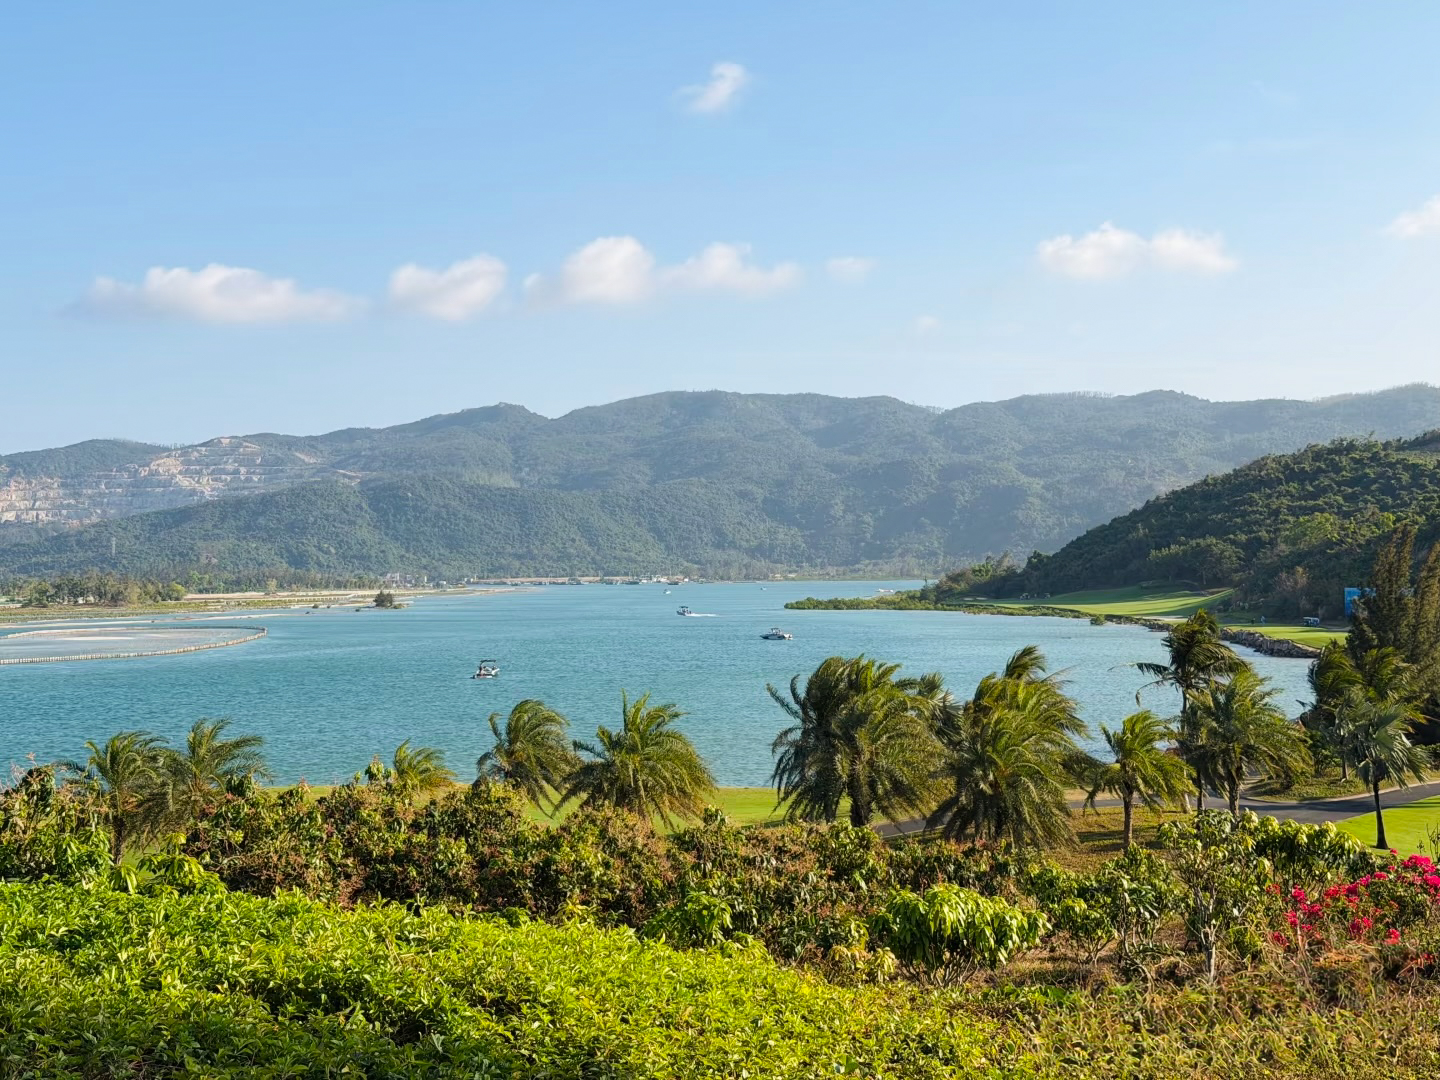
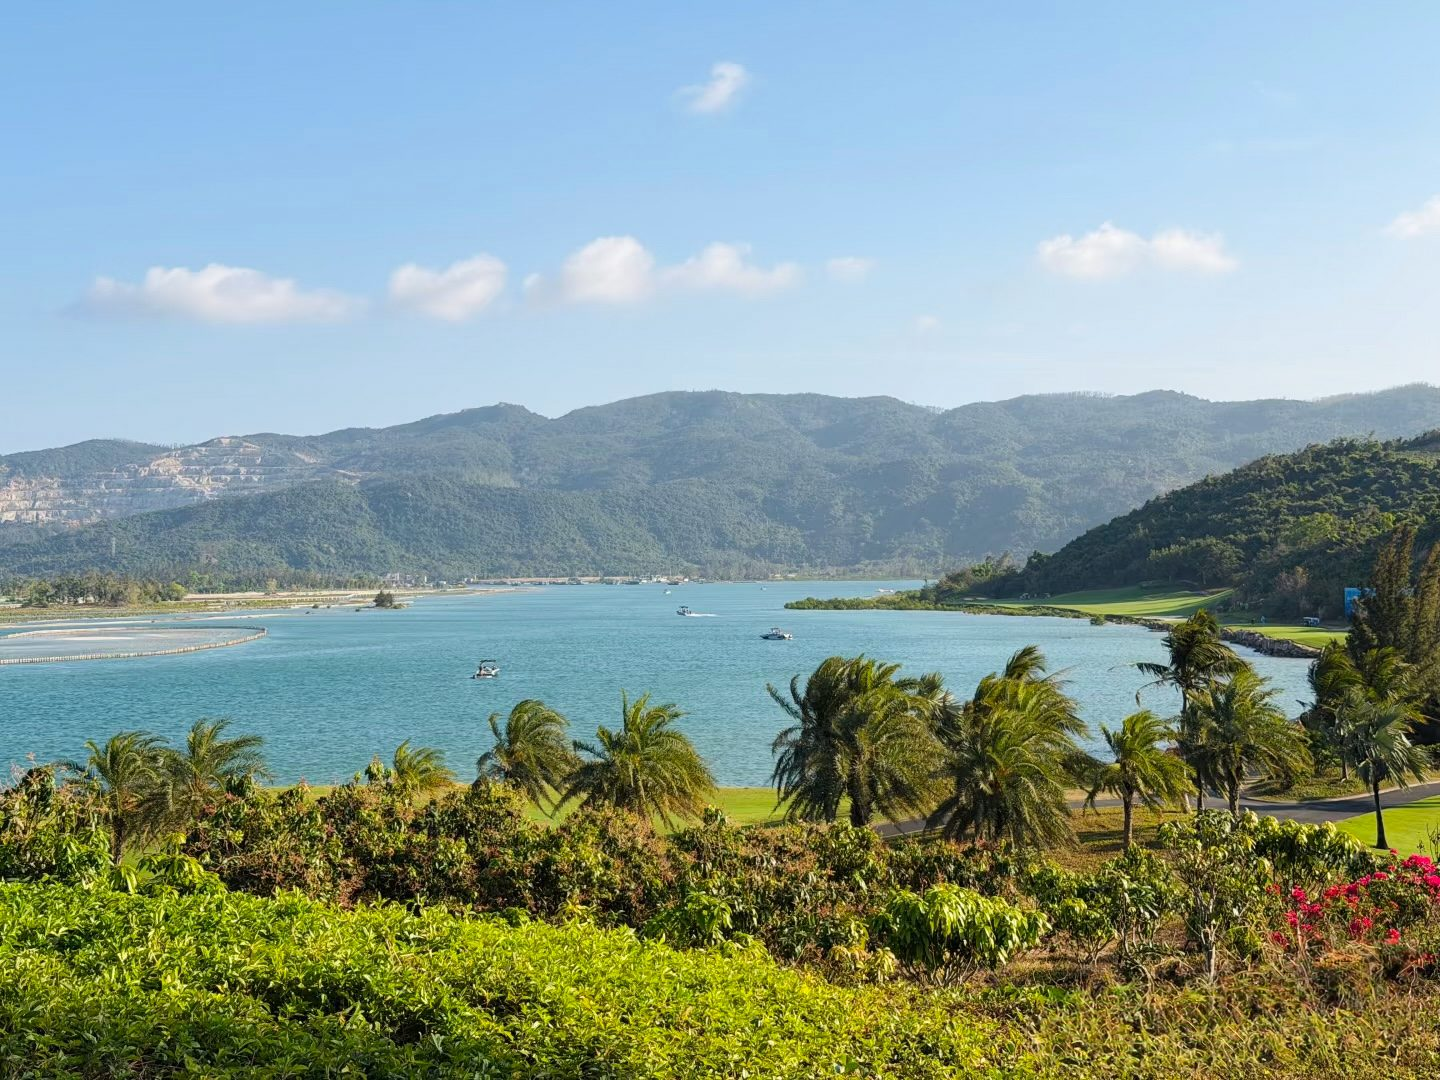
golf: swipeable image carousels for course showcases
Replace single course images on pages/golf.html with the same slider
used on golfchina.co (crossfade + arrows + dots + touch swipe), keeping
surfchina's 4:3 ratio. Blackstone/Dunes/Shanqin use the Golf China
photos; Lu Hui Tou uses three Wanning golf photos (1780920050054
recompressed to ~324KB).

diff --git a/pages/golf.html b/pages/golf.html
@@ -312,7 +312,7 @@ nav.scrolled { padding: 0.7rem 0; }
 }
 .course-row.reverse .course-row-grid { grid-template-columns: 1fr 1.05fr; }
 .course-row.reverse .course-row-img { order: 2; }
-.course-row-img { width: 100%; aspect-ratio: 4 / 3; overflow: hidden; border-radius: 3px; background: var(--sand-dark); }
+.course-row-img { width: 100%; aspect-ratio: 4 / 3; overflow: hidden; border-radius: 3px; background: var(--sand-dark); position: relative; }
 .course-row-img img { width: 100%; height: 100%; object-fit: cover; display: block; transition: transform 0.8s var(--transition); }
 .course-row-img:hover img { transform: scale(1.04); }
 .course-tag { display: inline-block; font-family: 'Inter', sans-serif; font-size: 0.72rem; font-weight: 700; letter-spacing: 0.16em; text-transform: uppercase; color: var(--gold); margin-bottom: 0.8rem; }
@@ -404,6 +404,40 @@ nav.scrolled { padding: 0.7rem 0; }
 @media (max-width: 880px) {
   .shanqin-grid { grid-template-columns: 1fr; gap: 2rem; }
 }
+
+/* ======= COURSE IMAGE CAROUSEL (swipeable slider, ported from Golf China) ======= */
+.course-row-img.gal, .shanqin-img.gal { position: relative; }
+.gal img {
+  position: absolute; inset: 0;
+  width: 100%; height: 100%;
+  object-fit: cover; display: block;
+  opacity: 0; transition: opacity 0.55s ease;
+}
+.gal img.active { opacity: 1; }
+/* keep the carousel a clean crossfade — no hover zoom on stacked images */
+.course-row-img.gal:hover img { transform: none; }
+.gal-btn {
+  position: absolute; top: 50%; transform: translateY(-50%); z-index: 3;
+  width: 40px; height: 40px; border-radius: 999px;
+  border: 1px solid rgba(255,255,255,0.55);
+  background: rgba(10,77,104,0.42); color: #fff;
+  font-size: 20px; line-height: 1; cursor: pointer;
+  display: flex; align-items: center; justify-content: center;
+  transition: all 0.25s var(--transition); backdrop-filter: blur(2px);
+}
+.gal-btn:hover { background: var(--ocean); border-color: var(--gold); }
+.gal-btn.prev { left: 14px; }
+.gal-btn.next { right: 14px; }
+.gal-dots {
+  position: absolute; bottom: 14px; left: 50%; transform: translateX(-50%);
+  z-index: 3; display: flex; gap: 8px;
+}
+.gal-dot {
+  width: 7px; height: 7px; border-radius: 999px; border: none; padding: 0;
+  background: rgba(255,255,255,0.5); cursor: pointer; transition: all 0.25s;
+}
+.gal-dot.on { background: var(--gold); transform: scale(1.25); }
+@media (max-width: 600px) { .gal-btn { display: none; } }
 
 /* ======= GOLF GALLERY (mixed orientation, natural ratio, no crop) ======= */
 .golf-gallery {
@@ -629,8 +663,16 @@ nav.scrolled { padding: 0.7rem 0; }
 <!-- COURSE 1 — MISSION HILLS BLACKSTONE -->
 <section class="course-row">
   <div class="course-row-grid">
-    <div class="course-row-img fade-in">
-      <img loading="lazy" decoding="async" src="/Assets/golf/fairway-bunkers-01.jpg" alt="Mission Hills Blackstone — black-lava championship course">
+    <div class="course-row-img gal fade-in">
+      <img class="active" decoding="async" src="/Assets/golf/blackstone-fairway-bunkers.jpg" alt="Rugged white-sand bunkers set against black lava rock on a Blackstone fairway">
+      <img loading="lazy" decoding="async" src="/Assets/golf/blackstone-palm-fairway.jpg" alt="A palm-lined fairway running between walls of volcanic stone at Blackstone">
+      <img loading="lazy" decoding="async" src="/Assets/golf/blackstone-sandy-waste.jpg" alt="A green set beyond a wide sandy waste area dotted with scrub on the Blackstone course">
+      <img loading="lazy" decoding="async" src="/Assets/golf/blackstone-sunrise.jpg" alt="Dawn light over a Blackstone fairway, the sky turning pink above distant hills">
+      <img loading="lazy" decoding="async" src="/Assets/golf/blackstone-tiger-rory.jpg" alt="Tiger Woods and Rory McIlroy walking a fairway together during The Match at Mission Hills Haikou">
+      <img loading="lazy" decoding="async" src="/Assets/golf/blackstone-lava-wall.jpg" alt="A wall of black volcanic rock crossing the fairway toward a green at Blackstone">
+      <button class="gal-btn prev" aria-label="Previous image">&lsaquo;</button>
+      <button class="gal-btn next" aria-label="Next image">&rsaquo;</button>
+      <div class="gal-dots"></div>
     </div>
     <div class="course-row-content">
       <span class="course-tag">01 &middot; Haikou &middot; #1 in China</span>
@@ -663,8 +705,15 @@ nav.scrolled { padding: 0.7rem 0; }
 <!-- COURSE 2 — THE DUNES AT SHENZHOU -->
 <section class="course-row alt-bg reverse">
   <div class="course-row-grid">
-    <div class="course-row-img fade-in">
-      <img loading="lazy" decoding="async" src="/Assets/golf/shenzhou.jpg" alt="The Dunes at Shenzhou Peninsula — coastal links">
+    <div class="course-row-img gal fade-in">
+      <img class="active" decoding="async" src="/Assets/golf/dunes-shenzhou-headland-aerial.jpg" alt="An aerial view of The Dunes wrapping a rocky headland above a turquoise bay at Shenzhou Peninsula">
+      <img loading="lazy" decoding="async" src="/Assets/golf/dunes-shenzhou-aerial.jpg" alt="An aerial of The Dunes fairways, water and sand winding toward the sea at Shenzhou Peninsula">
+      <img loading="lazy" decoding="async" src="/Assets/golf/dunes-shenzhou-clubhouse.jpg" alt="A fairway running up to the clubhouse at The Dunes, Shenzhou Peninsula">
+      <img loading="lazy" decoding="async" src="/Assets/golf/dunes-shenzhou-sea-green.jpg" alt="A green set above the rocks and breaking surf at The Dunes, Shenzhou Peninsula">
+      <img loading="lazy" decoding="async" src="/Assets/golf/dunes-shenzhou-lagoon.jpg" alt="A green beside a lagoon with a forested hill behind at The Dunes, Shenzhou Peninsula">
+      <button class="gal-btn prev" aria-label="Previous image">&lsaquo;</button>
+      <button class="gal-btn next" aria-label="Next image">&rsaquo;</button>
+      <div class="gal-dots"></div>
     </div>
     <div class="course-row-content">
       <span class="course-tag">02 &middot; Wanning &middot; #2 in China</span>
@@ -697,8 +746,13 @@ nav.scrolled { padding: 0.7rem 0; }
 <!-- COURSE 3 — LU HUI TOU -->
 <section class="course-row">
   <div class="course-row-grid">
-    <div class="course-row-img fade-in">
-      <img loading="lazy" decoding="async" src="/Assets/golf/1780920060888.JPG" alt="Lu Hui Tou Golf Club — Sanya headland course">
+    <div class="course-row-img gal fade-in">
+      <img class="active" decoding="async" src="/Assets/golf/1780920060888.JPG" alt="Lu Hui Tou Golf Club — Sanya headland course between sea and mountain">
+      <img loading="lazy" decoding="async" src="/Assets/golf/1780920050054.JPG" alt="Lu Hui Tou Golf Club fairway draped across the Sanya peninsula">
+      <img loading="lazy" decoding="async" src="/Assets/golf/IMG_8160%203.jpg" alt="Lu Hui Tou Golf Club — ocean and mountain views on the Sanya headland">
+      <button class="gal-btn prev" aria-label="Previous image">&lsaquo;</button>
+      <button class="gal-btn next" aria-label="Next image">&rsaquo;</button>
+      <div class="gal-dots"></div>
     </div>
     <div class="course-row-content">
       <span class="course-tag">03 &middot; Sanya &middot; Headland Routing</span>
@@ -730,8 +784,17 @@ nav.scrolled { padding: 0.7rem 0; }
 <!-- COURSE 4 — SHANQIN BAY (EXCLUSIVE / DARK) -->
 <section class="shanqin-section">
   <div class="shanqin-grid">
-    <div class="shanqin-img fade-in">
-      <img loading="lazy" decoding="async" src="/Assets/golf/IMG_7781%204.jpg" alt="Shanqin Bay Golf Club — invitation-only private course">
+    <div class="shanqin-img gal fade-in">
+      <img class="active" decoding="async" src="/Assets/golf/shanqinbay-clifftop-beach.jpg" alt="A clifftop green above a wild white-sand beach and turquoise sea at Shanqin Bay">
+      <img loading="lazy" decoding="async" src="/Assets/golf/shanqinbay-stonewall-sea.jpg" alt="A hole running toward the sea past an old stone wall at Shanqin Bay">
+      <img loading="lazy" decoding="async" src="/Assets/golf/shanqinbay-beach-fairway.jpg" alt="An aerial of fairways and native-sand bunkers along the beach at Shanqin Bay">
+      <img loading="lazy" decoding="async" src="/Assets/golf/shanqinbay-bunkered-green.jpg" alt="A green flanked by sculpted bunkers above the open sea at Shanqin Bay">
+      <img loading="lazy" decoding="async" src="/Assets/golf/shanqinbay-clubhouse.jpg" alt="The clubhouse on the headland above a stone-walled hole and the sea at Shanqin Bay">
+      <img loading="lazy" decoding="async" src="/Assets/golf/shanqinbay-light-ridge.jpg" alt="Sunbeams breaking over a ridgeline green running down to the sea at Shanqin Bay">
+      <img loading="lazy" decoding="async" src="/Assets/golf/shanqinbay-surf-green.jpg" alt="A green set above breaking surf and rocks at Shanqin Bay">
+      <button class="gal-btn prev" aria-label="Previous image">&lsaquo;</button>
+      <button class="gal-btn next" aria-label="Next image">&rsaquo;</button>
+      <div class="gal-dots"></div>
       <span class="shanqin-img-tag">Invitation Only</span>
     </div>
     <div class="shanqin-content">
@@ -840,6 +903,42 @@ const io = new IntersectionObserver((entries) => {
   entries.forEach(e => { if (e.isIntersecting) e.target.classList.add('visible'); });
 }, { threshold: 0.15 });
 document.querySelectorAll('.fade-in').forEach(el => io.observe(el));
+
+// Course image carousels (swipe / arrows / dots)
+document.querySelectorAll('.gal').forEach(g => {
+  const imgs = [...g.querySelectorAll('img')];
+  const dots = g.querySelector('.gal-dots');
+  if (imgs.length < 2) {
+    g.querySelectorAll('.gal-btn').forEach(b => b.remove());
+    if (dots) dots.remove();
+    return;
+  }
+  let i = 0;
+  function go(n) {
+    imgs[i].classList.remove('active');
+    dots.children[i].classList.remove('on');
+    i = (n + imgs.length) % imgs.length;
+    imgs[i].classList.add('active');
+    dots.children[i].classList.add('on');
+  }
+  imgs.forEach((_, k) => {
+    const d = document.createElement('button');
+    d.className = 'gal-dot' + (k === 0 ? ' on' : '');
+    d.setAttribute('aria-label', 'Image ' + (k + 1));
+    d.addEventListener('click', () => go(k));
+    dots.appendChild(d);
+  });
+  g.querySelector('.prev').addEventListener('click', () => go(i - 1));
+  g.querySelector('.next').addEventListener('click', () => go(i + 1));
+  let x0 = null;
+  g.addEventListener('touchstart', e => { x0 = e.touches[0].clientX; }, { passive: true });
+  g.addEventListener('touchend', e => {
+    if (x0 === null) return;
+    const dx = e.changedTouches[0].clientX - x0;
+    if (Math.abs(dx) > 40) go(i + (dx < 0 ? 1 : -1));
+    x0 = null;
+  }, { passive: true });
+});
 </script>
 
 </body>